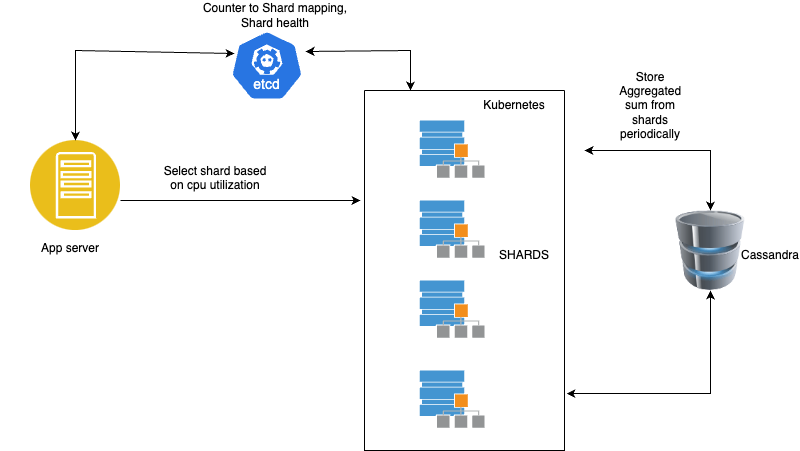
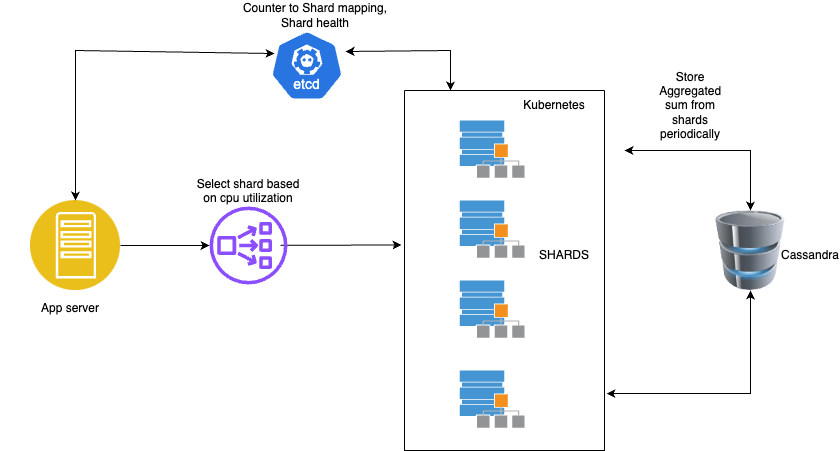
updated README for load balancer details

diff --git a/README.md b/README.md
@@ -17,15 +17,16 @@ In distributed systems, maintaining accurate counters under high concurrency can
 The system comprises the following components:
 
 1. **App Server:** Processes API requests for counter operations.
-2. **Service Registry (e.g., Etcd):** Maintains metadata about active shards and their mappings.
-3. **Shard Cluster:** Managed by Kubernetes, each pod handles a portion of the counter's data.
-4. **Persistent Storage (e.g., Cassandra):** Stores counter data for durability and recovery.
+2. **Load Balancer:** Distributes incoming requests across App Servers and selects shards based on a metrics-driven strategy (e.g., CPU utilization) to optimize resource usage and maintain system balance.
+3. **Service Registry (e.g., Etcd):** Maintains metadata about active shards and their mappings.
+4. **Shard Cluster:** Managed by Kubernetes, each pod handles a portion of the counter's data.
+5. **Persistent Storage (e.g., Cassandra):** Stores counter data for durability and recovery.
 
 ## Workflow
 
-1. **Counter Creation:** A new counter is initialized and distributed across a predefined number of shards.
-2. **Increment/Decrement Operations:** Incoming requests are routed to specific shards based on a metrics (cpu utilization) based selection statedy.
-3. **Read Operations:** To retrieve the total count, values from all shards are aggregated.
+1. **Counter Creation:** A new counter is initialized and distributed across a predefined number of shards. The Load Balancer determines the best shard for the counter based on metrics such as CPU utilization or shard availability.
+2. **Increment/Decrement Operations:** Incoming requests are routed to the Load Balancer, which identifies the optimal shard for the operation and forwards the request accordingly.
+3. **Read Operations:** The Load Balancer aggregates requests and queries the appropriate shards to retrieve values. The results are combined to compute the total counter value.
 
 ## Getting Started
 
@@ -95,6 +96,7 @@ Contributions are welcome! Please fork the repository and submit a pull request.
 This project is licensed under the MIT License. See the [LICENSE](LICENSE) file for details.
 
 ## Future Enhancements
+
 1. **gRPC-based Communication:** Replace traditional HTTP-based communication between the app and shards with gRPC for enhanced performance, lower latency, and efficient serialization.
 2. **Enhanced Fault Tolerance with Replication:** Integrate robust replication mechanisms for each shard to ensure high availability and seamless recovery from failures.
 3. **Leader-Follower Architecture for Shards:** Adopt a leader-follower model primarily for fault tolerance, where the leader manages write operations, and followers act as hot standbys, ready to take over in case of leader failure.
